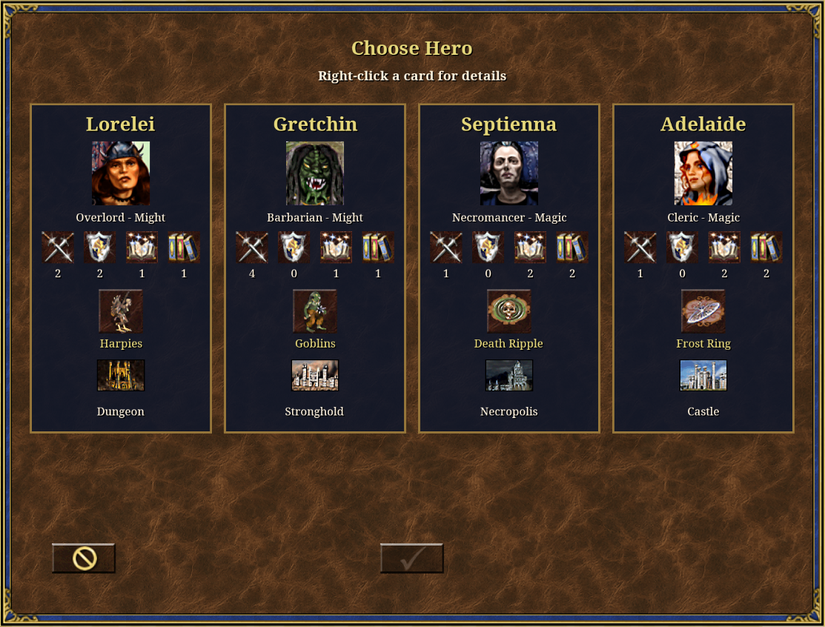
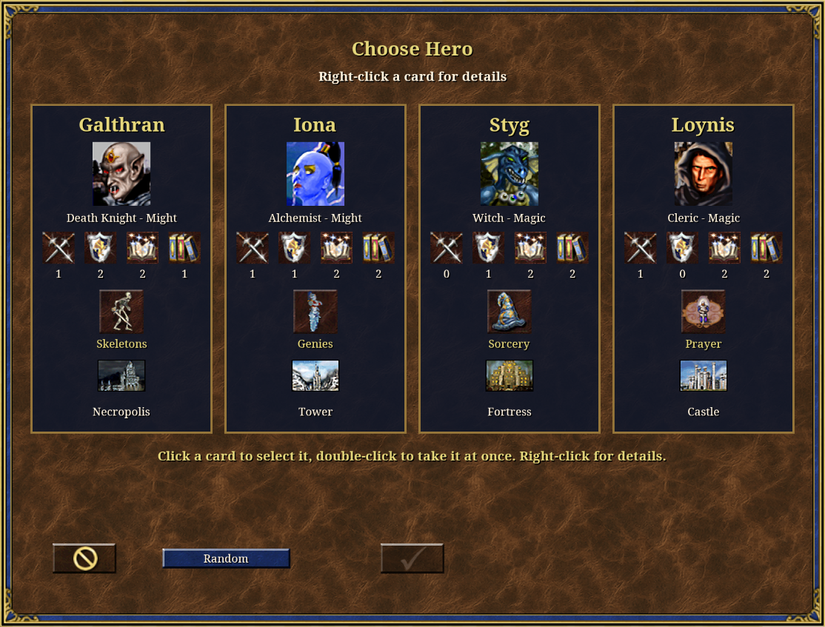
Arena Battles 0.8.0: PvE difficulty and faster drafting
- PvE difficulty screen with the original chess-piece icons: Easy, Normal,
  Hard (default, equal armies), Expert, Impossible scale the computer's
  creature stacks to 60/80/100/120/140%
- Random button on every draft screen
- Draft screens explain that a double-click takes a card at once
- README, changelog and screenshots updated

diff --git a/client/arena/ArenaDraft.cpp b/client/arena/ArenaDraft.cpp
@@ -308,6 +308,19 @@ int ArenaRules::skillBattleValue(SecondarySkill skill)
 	return it == values.end() ? 1 : it->second;
 }
 
+const std::vector<ArenaRules::Difficulty> & ArenaRules::difficulties()
+{
+	// the 5 difficulty levels and icons of the original game (pawn, knight, rook, queen, king)
+	static const std::vector<Difficulty> list = {
+		{"easy", "Easy", "The computer's creature stacks are 60% of the normal size. Good for learning and practicing tactics.", 60, "GSPBUT3"},
+		{"normal", "Normal", "The computer's creature stacks are 80% of the normal size.", 80, "GSPBUT4"},
+		{"hard", "Hard", "Equal armies: the computer's creature stacks are as large as yours.", 100, "GSPBUT5"},
+		{"expert", "Expert", "The computer's creature stacks are 20% larger than yours. For experienced players.", 120, "GSPBUT6"},
+		{"impossible", "Impossible", "The computer's creature stacks are 40% larger than yours. For masters only.", 140, "GSPBUT7"},
+	};
+	return list;
+}
+
 // ---------------------------------------------------------------------------------------------
 // Card builders for the choice screens
 // ---------------------------------------------------------------------------------------------
@@ -317,6 +330,7 @@ namespace
 	using Widgets = std::vector<std::shared_ptr<CIntObject>>;
 	constexpr int CARD_CENTER = ArenaCard::WIDTH / 2;
 	constexpr int HERO_CARD_WIDTH = 182; // 4 cards + gaps fit the 800 pixel wide window
+	constexpr int DIFFICULTY_CARD_WIDTH = 140; // 5 cards + gaps fit the 800 pixel wide window
 
 	std::string artifactClassText(const CArtifact * art)
 	{
@@ -328,6 +342,40 @@ namespace
 			case EArtifactClass::ART_RELIC: return arenaText("draft.artifactClass.relic", "Relic");
 			default: return "";
 		}
+	}
+
+	std::string difficultyName(const ArenaRules::Difficulty & d)
+	{
+		return arenaText("draft.difficulty." + d.key, d.name);
+	}
+
+	std::string enemyArmyText(const ArenaRules::Difficulty & d)
+	{
+		return arenaText("draft.enemyArmy", "Enemy army") + ": " + std::to_string(d.enemyArmyPercent) + "%";
+	}
+
+	ArenaOffer difficultyOffer(const ArenaRules::Difficulty & d)
+	{
+		ArenaOffer offer;
+		std::string info = arenaText("draft.difficulty." + d.key + "Info", d.info);
+		offer.description = difficultyName(d) + " - " + enemyArmyText(d);
+		offer.width = DIFFICULTY_CARD_WIDTH;
+		offer.build = [d, info](Widgets & w)
+		{
+			constexpr int center = DIFFICULTY_CARD_WIDTH / 2;
+			w.push_back(std::make_shared<CLabel>(center, 22, FONT_BIG, ETextAlignment::CENTER, Colors::YELLOW, difficultyName(d),
+				DIFFICULTY_CARD_WIDTH - 8));
+			// the original difficulty icon, shown twice as large
+			auto image = ENGINE->renderHandler().loadImage(AnimationPath::builtin(d.icon), 0, 0, EImageBlitMode::COLORKEY);
+			Point size = image->dimensions() * 2;
+			image->scaleTo(size, EScalingAlgorithm::NEAREST);
+			w.push_back(std::make_shared<CPicture>(image, Point(center - size.x / 2, 48)));
+			w.push_back(std::make_shared<CLabel>(center, 172, FONT_MEDIUM, ETextAlignment::CENTER, Colors::YELLOW, enemyArmyText(d),
+				DIFFICULTY_CARD_WIDTH - 8));
+			w.push_back(std::make_shared<CMultiLineLabel>(Rect(8, 192, DIFFICULTY_CARD_WIDTH - 16, 128), FONT_SMALL, ETextAlignment::TOPCENTER,
+				Colors::WHITE, info));
+		};
+		return offer;
 	}
 
 	ArenaOffer heroOffer(HeroTypeID heroId)
@@ -603,7 +651,49 @@ void ArenaDraft::start()
 	backdrop = window;
 	ENGINE->windows().pushWindow(window);
 
-	stepChooseHero();
+	if(pvp)
+		stepChooseHero();
+	else
+		stepDifficulty();
+}
+
+namespace
+{
+	int lastDifficulty = ArenaRules::DEFAULT_DIFFICULTY; // remembered while the game runs
+}
+
+std::string ArenaDraft::difficultyText() const
+{
+	if(pvp)
+		return "";
+	const auto & d = ArenaRules::difficulties().at(difficulty);
+	return arenaText("draft.difficulty", "Difficulty") + ": " + difficultyName(d) + " (" + enemyArmyText(d) + ")";
+}
+
+// --- step 0 (PvE): difficulty ---------------------------------------------------------------------
+
+void ArenaDraft::stepDifficulty()
+{
+	std::vector<ArenaOffer> offers;
+	for(const auto & d : ArenaRules::difficulties())
+		offers.push_back(difficultyOffer(d));
+
+	auto self = shared_from_this();
+	auto window = std::make_shared<ArenaChoiceWindow>(
+		arenaText("draft.chooseDifficulty", "Choose Difficulty"),
+		arenaText("draft.chooseDifficultyHint", "The computer's army size depends on the difficulty"),
+		offers,
+		[self](int index)
+		{
+			self->difficulty = index;
+			lastDifficulty = index;
+			self->stepChooseHero();
+		},
+		[self]() { self->cancel(); },
+		nullptr);
+	window->preselect(lastDifficulty);
+	window->setRandomAllowed(false);
+	ENGINE->windows().pushWindow(window);
 }
 
 void ArenaDraft::closeBackdrop()
@@ -1167,7 +1257,10 @@ void ArenaDraft::draftEnemy()
 			return std::make_pair(creature->getFactionID() == heroFaction, static_cast<int64_t>(creature->getBaseHitPoints()) * c.second);
 		};
 		auto best = *std::max_element(creatures.begin(), creatures.end(), [&](const auto & a, const auto & b) { return score(a) < score(b); });
-		giveCreature(side, level, best.first, best.second);
+		// difficulty: the stack is scaled (PvE only, the computer drafts only in PvE)
+		int percent = ArenaRules::difficulties().at(difficulty).enemyArmyPercent;
+		int amount = std::max(1, static_cast<int>((static_cast<int64_t>(best.second) * percent + 50) / 100));
+		giveCreature(side, level, best.first, amount);
 	}
 }
 

diff --git a/client/arena/ArenaWindows.cpp b/client/arena/ArenaWindows.cpp
@@ -27,6 +27,7 @@
 
 #include "../../lib/GameLibrary.h"
 #include "../../lib/CCreatureHandler.h"
+#include "../../lib/CRandomGenerator.h"
 #include "../../lib/CSkillHandler.h"
 #include "../../lib/entities/artifact/ArtifactUtils.h"
 #include "../../lib/entities/artifact/CArtifact.h"
@@ -139,6 +140,14 @@ void ArenaCard::hover(bool on)
 // ArenaChoiceWindow
 // ---------------------------------------------------------------------------------------------
 
+namespace
+{
+	std::string clickHint()
+	{
+		return arenaText("draft.clickHint", "Click a card to select it, double-click to take it at once. Right-click for details.");
+	}
+}
+
 ArenaChoiceWindow::ArenaChoiceWindow(const std::string & titleText, const std::string & subtitleText, std::vector<ArenaOffer> offersList,
 	std::function<void(int)> onPickCallback, std::function<void()> onCancel, std::function<void()> onShowHero)
 	: CWindowObject(BORDERED)
@@ -190,6 +199,13 @@ ArenaChoiceWindow::ArenaChoiceWindow(const std::string & titleText, const std::s
 				}, 0);
 		}, EShortcut::GLOBAL_CANCEL);
 
+	// takes a random card at once (fewer clicks for players who don't mind)
+	buttonRandom = std::make_shared<CButton>(Point(150, 535), AnimationPath::builtin("GSPBUT2"),
+		CButton::tooltip(arenaText("draft.randomHelp", "Take a random card")), [this]() { chooseRandom(); });
+	buttonRandom->setTextOverlay(arenaText("draft.random", "Random"), FONT_SMALL, Colors::WHITE);
+
+	description->setText(clickHint());
+
 	if(onShowHero)
 	{
 		buttonHero = std::make_shared<CButton>(Point(pos.w - 40 - 128, 535), AnimationPath::builtin("GSPBUT2"),
@@ -211,8 +227,32 @@ void ArenaChoiceWindow::select(int index)
 
 void ArenaChoiceWindow::showDescription(int index)
 {
-	description->setText(index >= 0 && index < offers.size() ? offers[index].description : "");
+	if(index >= 0 && index < offers.size())
+		description->setText(offers[index].description);
+	else
+		description->setText(clickHint());
 	redraw();
+}
+
+void ArenaChoiceWindow::chooseRandom()
+{
+	if(cards.empty())
+		return;
+	select(CRandomGenerator::getDefault().nextInt(0, static_cast<int>(cards.size()) - 1));
+	choose();
+}
+
+void ArenaChoiceWindow::preselect(int index)
+{
+	select(index);
+}
+
+void ArenaChoiceWindow::setRandomAllowed(bool allowed)
+{
+	if(allowed)
+		buttonRandom->enable();
+	else
+		buttonRandom->disable();
 }
 
 void ArenaChoiceWindow::choose()
@@ -323,7 +363,7 @@ ArenaHeroWindow::ArenaHeroWindow(std::shared_ptr<ArenaDraft> draftPtr, EMode mod
 	hint->setText(draft->isFirstPvPDraft() && mode == EMode::CONFIRM
 		? arenaText("pvp.confirmHint", "Check your hero, then press Done. The next player drafts after you.")
 		: mode == EMode::CONFIRM
-		? arenaText("hero.confirmHint", "Check your hero, then press Begin.")
+		? arenaText("hero.confirmHint", "Check your hero, then press Begin.") + (draft->isPvP() ? "" : "\n" + draft->difficultyText())
 		: mode == EMode::LEVELED
 		? arenaText("hero.leveledHint", "Your hero reached level 25 and all skills are Expert. Press Done to draft spells.")
 		: arenaText("hero.arrangeHint", "Click an artifact, then a slot to move it."));

diff --git a/client/arena/ArenaDraft.h b/client/arena/ArenaDraft.h
@@ -52,6 +52,18 @@ namespace ArenaRules
 
 	/// How useful a secondary skill is in an arena battle (used by the computer opponent)
 	int skillBattleValue(SecondarySkill skill);
+
+	/// PvE difficulty: the computer's creature stacks are scaled to this percentage of the normal size
+	struct Difficulty
+	{
+		std::string key;          // text key: draft.difficulty.<key> and draft.difficulty.<key>Info
+		std::string name;         // fallback name
+		std::string info;         // fallback description
+		int enemyArmyPercent;
+		std::string icon;         // difficulty icon of the original new game screen (pawn ... king)
+	};
+	const std::vector<Difficulty> & difficulties();
+	constexpr int DEFAULT_DIFFICULTY = 2; // Hard: equal armies
 }
 
 /// One drafted hero (the player's or the opponent's). The hero object lives on the arena map.
@@ -82,6 +94,8 @@ public:
 	bool isPvP() const { return pvp; }
 	/// true while the first of the two PvP players is drafting
 	bool isFirstPvPDraft() const { return pvp && active == 0; }
+	/// "Difficulty: Hard (enemy army 100%)" in PvE, empty in PvP
+	std::string difficultyText() const;
 	void cancel();
 
 	/// moves an artifact on the hero (equipped slot or backpack) to another position, swapping if needed.
@@ -103,6 +117,7 @@ private:
 	int spellPicks = 0;
 	int artifactPicks = 0;
 	int creaturePicks = 0;
+	int difficulty = ArenaRules::DEFAULT_DIFFICULTY;
 	bool cancelled = false;
 
 	template<typename T>
@@ -117,6 +132,7 @@ private:
 	void stepHandOver();
 
 	// player steps
+	void stepDifficulty(); // PvE only, before the hero
 	void stepChooseHero();
 	void stepSkill();
 	void stepLevelUp();

diff --git a/client/arena/ArenaWindows.h b/client/arena/ArenaWindows.h
@@ -88,6 +88,7 @@ class ArenaChoiceWindow : public CWindowObject
 	std::shared_ptr<CMultiLineLabel> description;
 	std::shared_ptr<CButton> buttonChoose;
 	std::shared_ptr<CButton> buttonCancel;
+	std::shared_ptr<CButton> buttonRandom;
 	std::shared_ptr<CButton> buttonHero;
 	std::shared_ptr<CLabel> labelHero;
 
@@ -97,11 +98,17 @@ class ArenaChoiceWindow : public CWindowObject
 
 	void select(int index);
 	void choose();
+	void chooseRandom();
 	void showDescription(int index);
 
 public:
 	ArenaChoiceWindow(const std::string & titleText, const std::string & subtitleText, std::vector<ArenaOffer> offers,
 		std::function<void(int)> onPick, std::function<void()> onCancel, std::function<void()> onShowHero);
+
+	/// selects a card before the player clicks (e.g. the last used difficulty)
+	void preselect(int index);
+	/// shows or hides the "Random" button (shown by default)
+	void setRandomAllowed(bool allowed);
 };
 
 /// Hero screen (original H3 hero window layout) used to arrange artifacts and to confirm the

diff --git a/README.md b/README.md
@@ -2,7 +2,7 @@
 
 **Draft a hero, build an army, fight one battle.** Arena Battles is a fan-made arena mode for *Heroes of Might and Magic III*, built on the open-source [VCMI](https://vcmi.eu/) engine. There is no map and no economy, and you won't wait 100 turns. You pick a hero, draft skills, spells, artifacts and creatures one screen at a time, and then everything comes down to one battle.
 
-**⬇ [Download the latest release (v0.7.0)](https://github.com/tishonator/arena-battles-hmm3-fan-mod/releases/latest)** for Windows, macOS, Linux and Android.
+**⬇ [Download the latest release (v0.8.0)](https://github.com/tishonator/arena-battles-hmm3-fan-mod/releases/latest)** for Windows, macOS, Linux and Android.
 
 > [!CAUTION]
 > **You need your own copy of *Heroes of Might and Magic III: Complete* or *Shadow of Death*.**
@@ -23,6 +23,7 @@
 - [How a draft works](#how-a-draft-works)
   - [Choosing your skills](#choosing-your-skills)
   - [Fair picks: heroes, artifacts and armies](#fair-picks-heroes-artifacts-and-armies)
+  - [Difficulty and faster drafting](#difficulty-and-faster-drafting)
 - [Screenshots](#screenshots)
 - [Installation](#installation)
   - [Before you start: the original game data](#1-before-you-start-the-original-game-data)
@@ -52,7 +53,8 @@
 - **A full draft in about 10 minutes.** Pick 1 of 4 heroes (always 2 might and 2 magic heroes) and fill all 8 skill slots with **battle skills only**. Your hero then jumps to level 25 with every skill at Expert. Then choose 9 spells, 11 artifacts (one for each slot) and 7 creature stacks.
 - **No useless picks.** You'll never be offered Estates, Scouting or Navigation, heroes whose specialty is gold or Logistics, the Earthquake spell, or other things that do nothing in a single battle.
 - **Big, balanced armies.** Armies are about the size you'd have at the end of a large map, and every creature offer has the same total strength: upgraded and stronger creatures come in smaller stacks, with no random amounts.
-- **A smart AI opponent.** In PvE, the computer drafts the same way you do and always takes the strongest offer.
+- **A smart AI opponent with 5 difficulty levels.** In PvE, the computer drafts the same way you do and always takes the strongest offer. Easy, Normal, Hard, Expert or Impossible sets the size of its army (60% to 140% of yours).
+- **Draft as fast as you like.** Double-click a card to take it at once, or press **Random** to let the game pick for you.
 - **Fair fights.** Quick combat is off, both sides get the same number of picks, and the battlefield is random.
 - **Original HoMM3 look and feel.** The mod runs on your own copy of the game data, so it has the classic creatures, spells, artifacts, music and battle screen.
 - **Runs everywhere VCMI runs:** Windows, macOS, Linux, Android and iOS.
@@ -62,12 +64,14 @@
 
 | Menu item | What it is |
 | --- | --- |
-| **New Arena PvE** | You draft a hero and army. The computer drafts its own, then you fight it. |
+| **New Arena PvE** | Choose a difficulty, then draft a hero and army. The computer drafts its own, then you fight it. |
 | **New Arena PvP** | Two players take turns drafting on the same computer (Player 1, then Player 2). Then they fight each other in hotseat. |
 | **Custom Arena** | A sandbox. Pick both heroes, their skills, artifacts and **any creatures in any amounts**. Player 2 can be a **Human** or the **Computer**. It is good for testing formations, "creature vs creature" match-ups and theory-crafting. |
 | **Credits** | Who made this, and the engine and game credits. |
 
 ## How a draft works
+
+In PvE you first choose a difficulty: Easy, Normal, Hard, Expert or Impossible (see [Difficulty and faster drafting](#difficulty-and-faster-drafting)). Then:
 
 1. **Choose your hero.** You get 4 random heroes: 2 might and 2 magic heroes, each from a different faction. Every hero starts with a spell book.
 2. **Choose your skills.** A hero has 8 skill slots, and you fill them one screen at a time, taking 1 of 3 skills each time.
@@ -140,6 +144,29 @@ Heroes with a creature, spell or battle-skill specialty stay, so a Galthran stil
 
 The computer opponent follows the same rules. It takes the most valuable artifact for each slot and prefers creatures from its own faction.
 
+### Difficulty and faster drafting
+
+Version 0.8.0 adds difficulty levels for PvE and fewer clicks for everyone.
+
+![Choose a difficulty](arena-battles/screenshots/choose-difficulty.png)
+
+**Difficulty.** Before a PvE draft you choose how big the computer's army is, with the 5 difficulty levels and chess-piece icons of the original game. Only its creature stacks change. Its hero, skills, spells and artifacts are drafted as usual.
+
+| Difficulty | Computer's army | Good for                                           |
+| ---------- | --------------- | -------------------------------------------------- |
+| Easy       | 60%             | learning the game and practicing tactics           |
+| Normal     | 80%             | a relaxed battle                                   |
+| **Hard**   | **100%**        | equal armies (the default, as in earlier versions) |
+| Expert     | 120%            | experienced players                                |
+| Impossible | 140%            | masters only                                       |
+
+The game remembers your choice until you close it, and the confirm screen shows the difficulty before you press **Begin**.
+
+**Faster drafting.**
+
+- **Double-click** a card to take it at once, without pressing the OK button.
+- Press **Random** on any draft screen to take a random card. Press it on every screen for a quick, fully random draft.
+
 ## Screenshots
 
 | | |
@@ -183,7 +210,7 @@ Arena Battles uses the same game data as VCMI. **If you already play VCMI on a c
 
 ### 2. Download
 
-Open the **[latest release (v0.7.0)](https://github.com/tishonator/arena-battles-hmm3-fan-mod/releases/latest)** and download the file for your system (`<version>` is the release version, e.g. `v0.7.0`):
+Open the **[latest release (v0.8.0)](https://github.com/tishonator/arena-battles-hmm3-fan-mod/releases/latest)** and download the file for your system (`<version>` is the release version, e.g. `v0.8.0`):
 
 | System | File | Notes |
 | --- | --- | --- |
@@ -290,8 +317,8 @@ The `Mods/arenabattles` folder is installed with the engine automatically. On de
 - **Making a release:** push the commit to `arena-battles`, then push a version tag for it. CI builds everything and **publishes the GitHub Release** with all the packages attached. The tag build replaces the branch build of the same commit.
   ```sh
   git push origin arena-battles
-  git tag v0.7.0
-  git push origin v0.7.0
+  git tag v0.8.0
+  git push origin v0.8.0
   ```
 - If a platform fails (for example when no macOS runner is free), the release is still published with the other packages. Use **Re-run failed jobs** on that run to add the missing files to the same release.
 - Code signing is optional:
